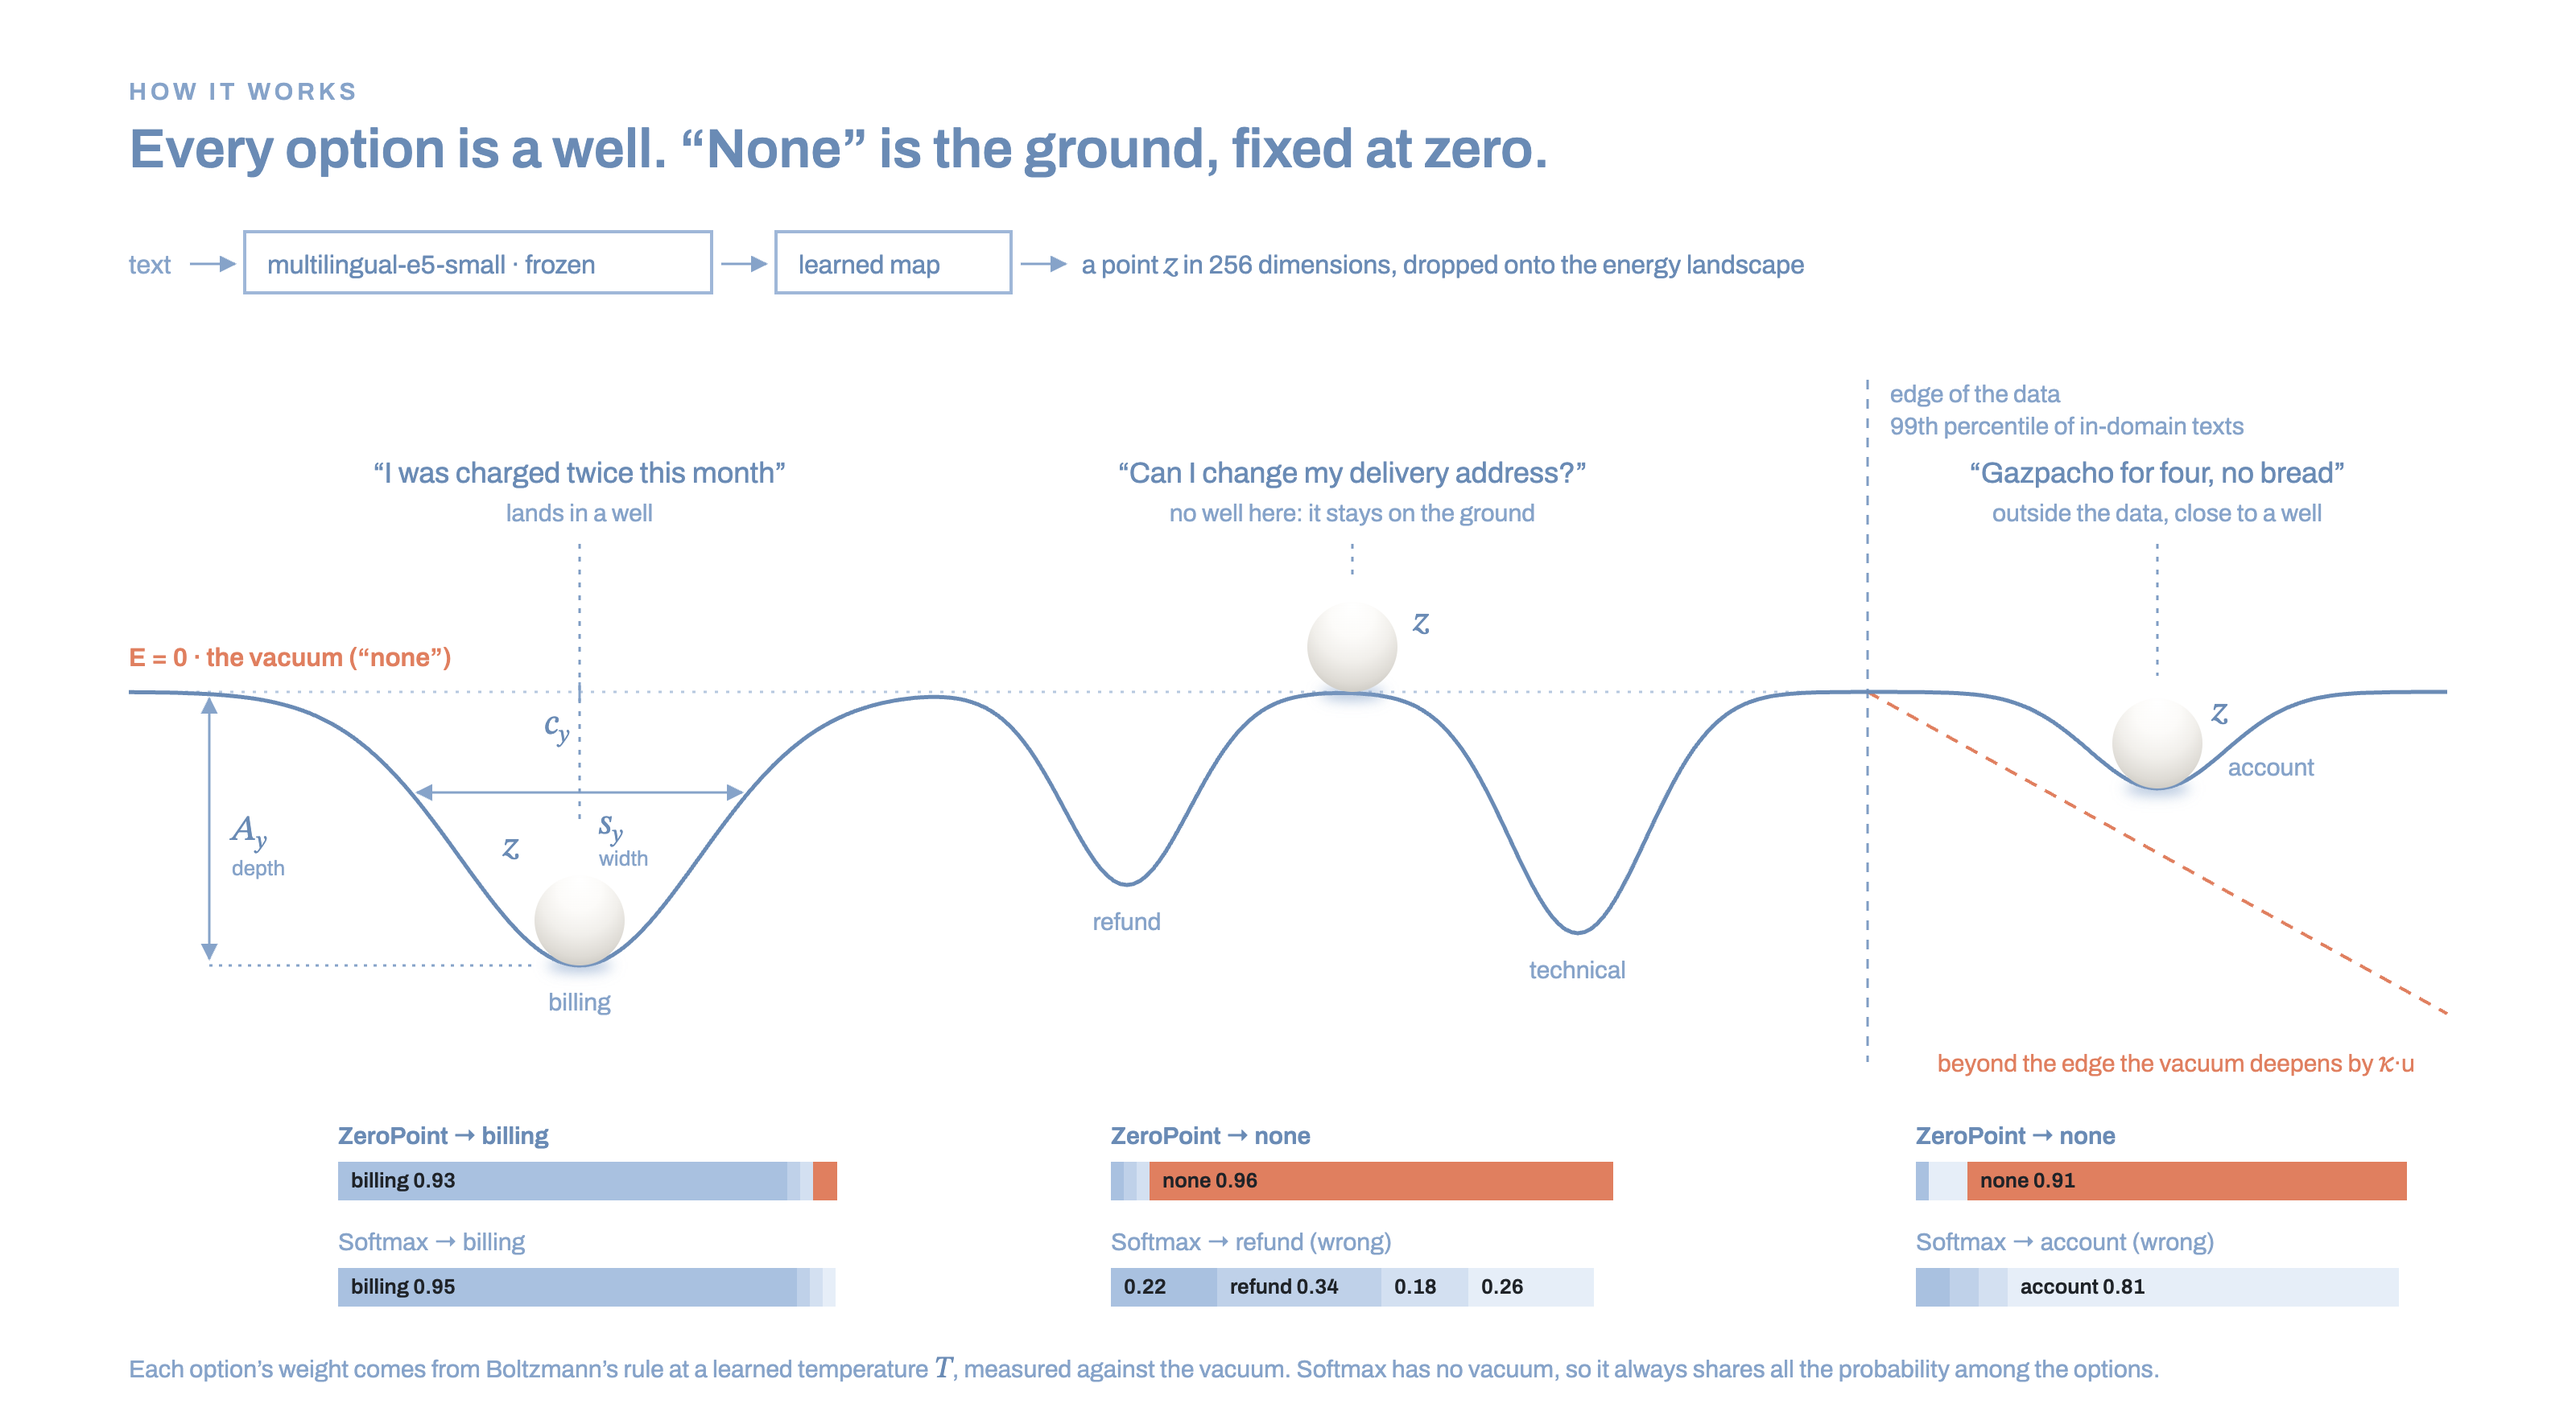
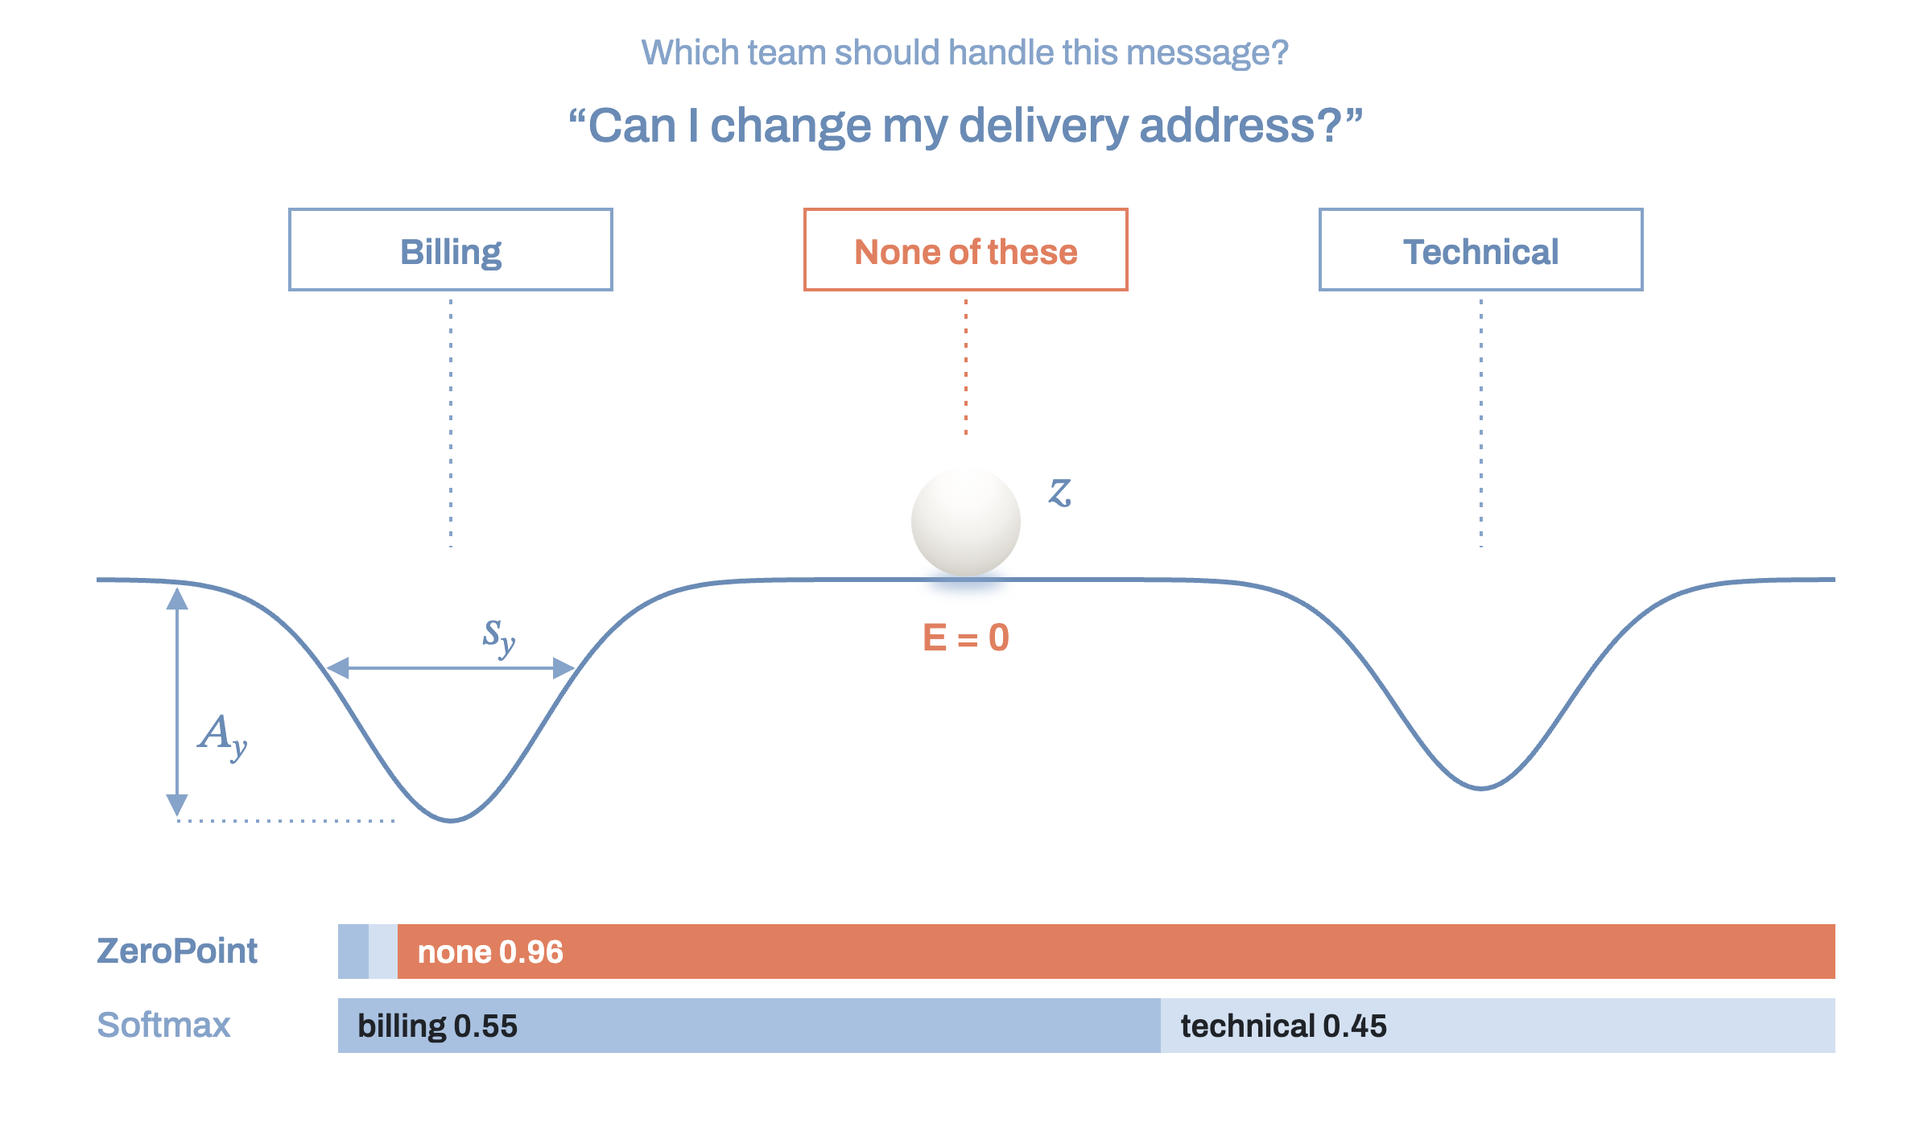
New diagram, remove speed sentence, add nine-dataset AUROC vs FPR95 chart with ZeroPoint (#11)

diff --git a/README.md b/README.md
@@ -44,9 +44,6 @@ for a document. A classifier always picks something, even when the right option 
 text has nothing to do with the task. ZeroPoint returns the best option or `None`, and the probability of
 "none" comes out of the same calculation as the probability of each option.
 
-It runs on a CPU in milliseconds, needs no PyTorch to make decisions, and can be calibrated on your own data
-in a few minutes.
-
 ```bash
 pip install zeropoint
 ```
